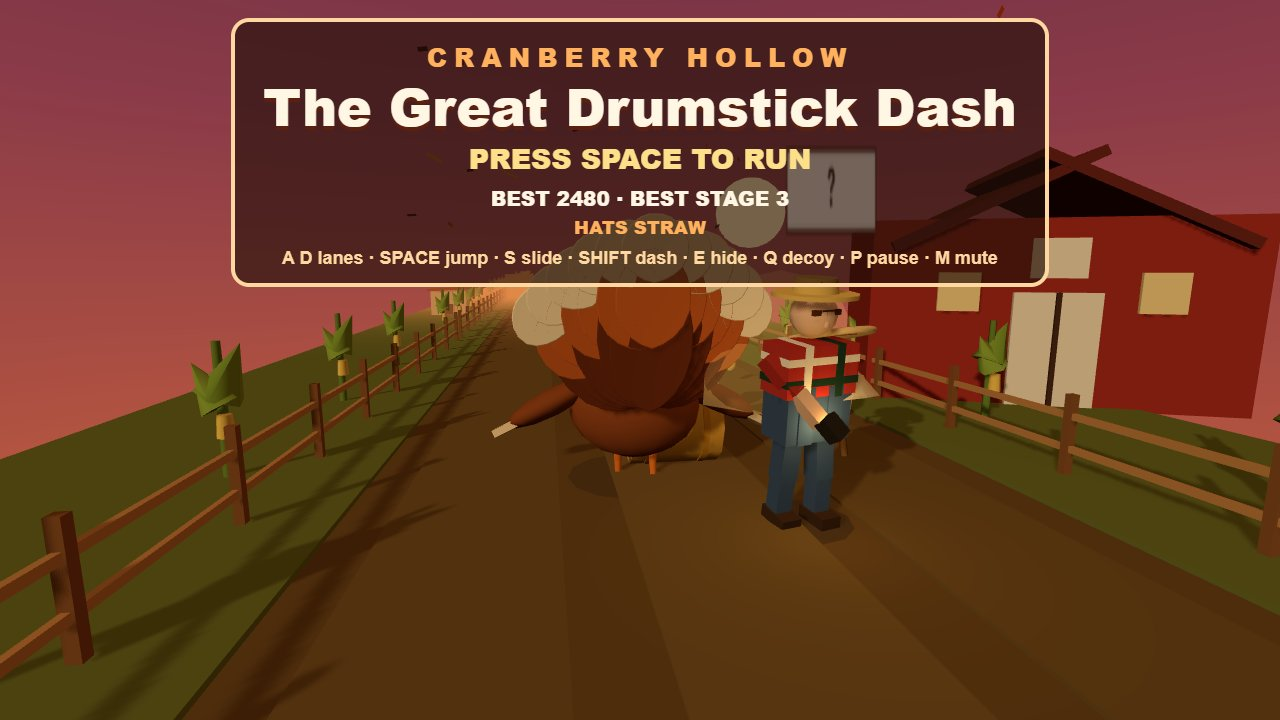
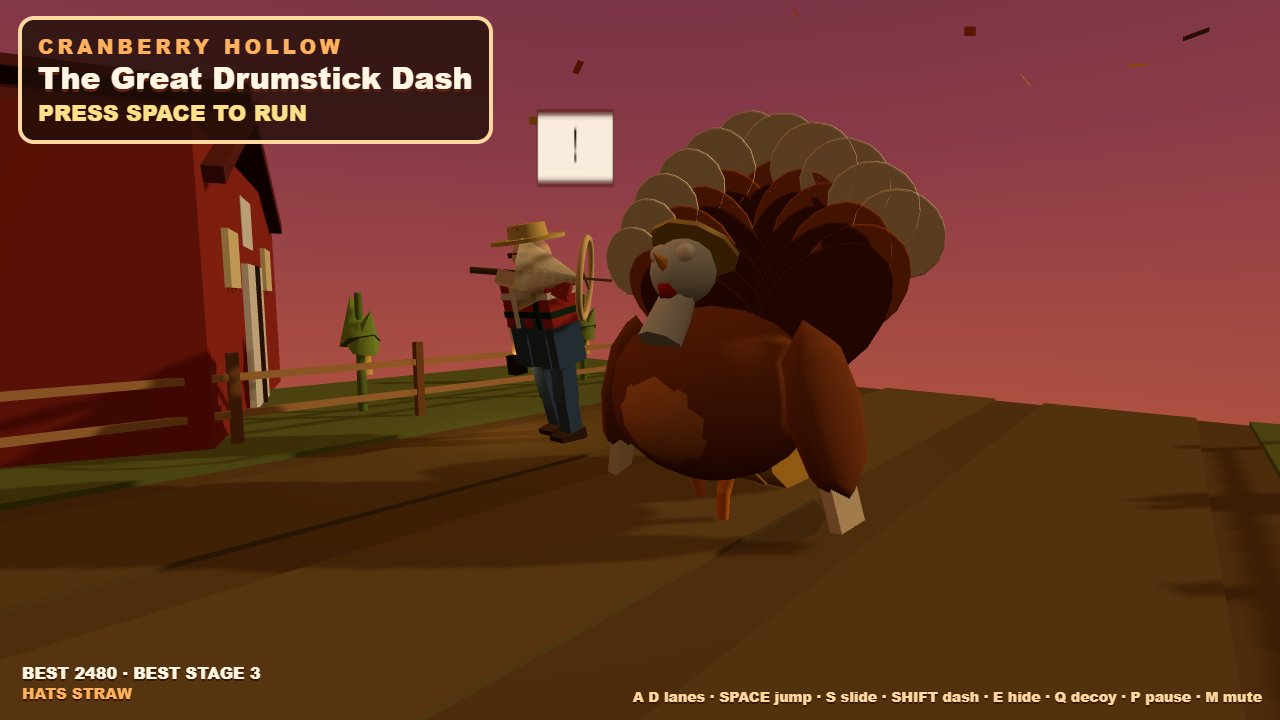
V2B: title hero

diff --git a/game/src/screens.js b/game/src/screens.js
@@ -7,16 +7,16 @@ export function createScreens(onRestart) {
   document.body.appendChild(root);
 
   const title = document.createElement('div');
-  title.style.cssText = 'position:absolute;inset:0;display:flex;flex-direction:column;align-items:center;justify-content:flex-start;padding-top:18px;text-align:center;pointer-events:none;';
+  title.style.cssText = 'position:absolute;inset:0;pointer-events:none;';
   title.innerHTML = [
-    '<div style="background:rgba(32,14,8,0.62);border:4px solid #ffd7a0;border-radius:18px;padding:16px 28px 14px;color:#fff6e4;max-width:860px">',
-    '<div style="letter-spacing:7px;font-weight:800;font-size:26px;color:#ffb15e">CRANBERRY HOLLOW</div>',
-    '<div style="font-weight:900;font-size:52px;line-height:1.02;margin:4px 0 6px;text-shadow:0 4px 0 #5a2010">The Great Drumstick Dash</div>',
-    '<div style="font-weight:800;font-size:28px;color:#ffe08a">PRESS SPACE TO RUN</div>',
-    '<div id="best-line" style="margin-top:6px;font-size:20px;font-weight:800"></div>',
-    '<div id="hat-line" style="margin-top:2px;font-size:18px;font-weight:800;color:#ffb15e"></div>',
-    '<div style="margin-top:8px;font-size:18px;font-weight:700;color:#ffd7a0">A D lanes · SPACE jump · S slide · SHIFT dash · E hide · Q decoy · P pause · M mute</div>',
+    '<div style="position:absolute;top:16px;left:18px;background:rgba(32,14,8,0.78);border:4px solid #ffd7a0;border-radius:16px;padding:12px 16px 12px;color:#fff6e4;text-align:left">',
+    '<div style="letter-spacing:4px;font-weight:800;font-size:20px;color:#ffb15e">CRANBERRY HOLLOW</div>',
+    '<div style="font-weight:900;font-size:30px;line-height:1.02;margin:2px 0 4px;white-space:nowrap;text-shadow:0 3px 0 #5a2010">The Great Drumstick Dash</div>',
+    '<div style="font-weight:800;font-size:22px;color:#ffe08a">PRESS SPACE TO RUN</div>',
     '</div>',
+    '<div id="best-line" style="position:absolute;left:22px;bottom:36px;font-size:16px;font-weight:800;color:#fff6e4;text-shadow:0 2px 0 #3a1808"></div>',
+    '<div id="hat-line" style="position:absolute;left:22px;bottom:16px;font-size:15px;font-weight:800;color:#ffb15e;text-shadow:0 2px 0 #3a1808"></div>',
+    '<div style="position:absolute;right:18px;bottom:14px;font-size:14px;font-weight:800;color:#ffd7a0;text-shadow:0 2px 0 #3a1808">A D lanes · SPACE jump · S slide · SHIFT dash · E hide · Q decoy · P pause · M mute</div>',
   ].join('');
   root.appendChild(title);
 

diff --git a/game/src/turkey-model.js b/game/src/turkey-model.js
@@ -122,10 +122,10 @@ export function createTurkey() {
   const snood = add(head, new THREE.SphereGeometry(0.055, 6, 5), PALETTE.wattle, 0, 0.02, 0.12);
   snood.scale.set(0.7, 1.7, 0.7);
   add(head, new THREE.SphereGeometry(0.07, 6, 5), PALETTE.wattle, 0, -0.12, 0.08);
-  const eyeL = add(head, new THREE.SphereGeometry(0.045, 6, 5), 0xf6f6f6, -0.08, 0.06, 0.14);
-  const eyeR = add(head, new THREE.SphereGeometry(0.045, 6, 5), 0xf6f6f6, 0.08, 0.06, 0.14);
-  add(eyeL, new THREE.SphereGeometry(0.022, 5, 4), 0x1a120c, 0, 0, 0.03);
-  add(eyeR, new THREE.SphereGeometry(0.022, 5, 4), 0x1a120c, 0, 0, 0.03);
+  const eyeL = add(head, new THREE.SphereGeometry(0.068, 8, 6), 0xf6f6f6, -0.09, 0.07, 0.15);
+  const eyeR = add(head, new THREE.SphereGeometry(0.068, 8, 6), 0xf6f6f6, 0.09, 0.07, 0.15);
+  const pupilL = add(eyeL, new THREE.SphereGeometry(0.034, 6, 5), 0x1a120c, 0, 0, 0.045);
+  const pupilR = add(eyeR, new THREE.SphereGeometry(0.034, 6, 5), 0x1a120c, 0, 0, 0.045);
 
   function leg(side) {
     const hip = new THREE.Group();
@@ -186,6 +186,8 @@ export function createTurkey() {
     wingR.rotation.set(0.15, -0.2, -0.7);
     neck.rotation.x = -0.15;
     snood.position.y = 0.02 + Math.sin(phase * 2) * 0.015;
+    pupilL.position.set(0, 0, 0.045);
+    pupilR.position.set(0, 0, 0.045);
 
     if (pose === 'jump') {
       wingL.rotation.set(0.1, 0.1, 1.15);
@@ -215,7 +217,11 @@ export function createTurkey() {
       const flap = Math.sin(phase * 3);
       wingL.rotation.z = 0.9 + flap * 0.45;
       wingR.rotation.z = -0.9 - flap * 0.45;
-      tail.rotation.y = Math.sin(phase * 4) * 0.28;
+      tail.rotation.x = 0.35;
+      tail.rotation.y = Math.sin(phase * 4) * 0.12;
+      neck.rotation.x = -0.55;
+      pupilL.position.set(0.01, 0.01, -0.012);
+      pupilR.position.set(-0.01, 0.01, -0.012);
     } else if (pose === 'idle') {
       neck.rotation.x = -0.05 + Math.sin(phase) * 0.08;
       tail.rotation.x = -0.12;

diff --git a/game/src/main.js b/game/src/main.js
@@ -98,8 +98,10 @@ function beginRun() {
 
 function syncWorld(dt) {
   turkey.position.set(bird.x, bird.y, bird.z);
-  turkey.userData.update(bird.phase, state.mode === MODE_TITLE ? 'idle' : bird.pose, bird.y);
+  const titlePose = state.shot === 'title' ? bird.pose : 'idle';
+  turkey.userData.update(bird.phase, state.mode === MODE_TITLE ? titlePose : bird.pose, bird.y);
   farmerMesh.position.set(farmer.x, 0, farmer.z);
+  farmerMesh.rotation.y = state.shot === 'title' ? Math.PI : 0;
   const shout = state.shoutT > 0 ? state.shout : '';
   farmerMesh.userData.update(farmer.phase, farmer.state, shout, state.farmerSweep || 0);
   if (state.caughtPose) {
@@ -391,15 +393,16 @@ if (query.name) {
   }
   if (query.name === 'title') {
     state.mode = 'title';
-    bird.x = -0.55;
-    bird.z = -5.6;
+    bird.x = -0.35;
+    bird.z = -7.1;
     bird.y = 0;
-    bird.pose = 'idle';
-    farmer.x = 0.85;
-    farmer.z = -4.0;
-    farmer.state = 'SEARCH';
-    state.farmerState = 'SEARCH';
-    state.shout = '?';
+    bird.pose = 'panic';
+    bird.phase = 0.42;
+    farmer.x = bird.x + 2.65;
+    farmer.z = bird.z + 0.85;
+    farmer.state = 'LUNGE';
+    state.farmerState = 'LUNGE';
+    state.shout = '!';
     state.shoutT = 2;
   }
   syncWorld(STEP);

diff --git a/game/src/camera-rig.js b/game/src/camera-rig.js
@@ -22,8 +22,9 @@ export function createCameraRig(camera) {
         desired.set(bird.x + 0.2, 2.25, bird.z + 5.35);
         look.set(bird.x - 0.35, 0.82, bird.z - 4.8);
       } else if (state.mode === 'title') {
-        desired.set(-1.6, 2.55, 1.4);
-        look.set(0.1, 0.85, -9.4);
+        // Front 3/4: camera is ahead of Tom (more -Z) and off to one side.
+        desired.set(bird.x - 2.55, 1.62, bird.z - 3.7);
+        look.set(bird.x + 1.15, 1.05, bird.z + 0.45);
       } else if (state.caughtPose) {
         desired.set(bird.x - 3.6, 2.35, bird.z + 5.4);
         look.set(bird.x + 1.4, 1.05, bird.z - 1.2);
